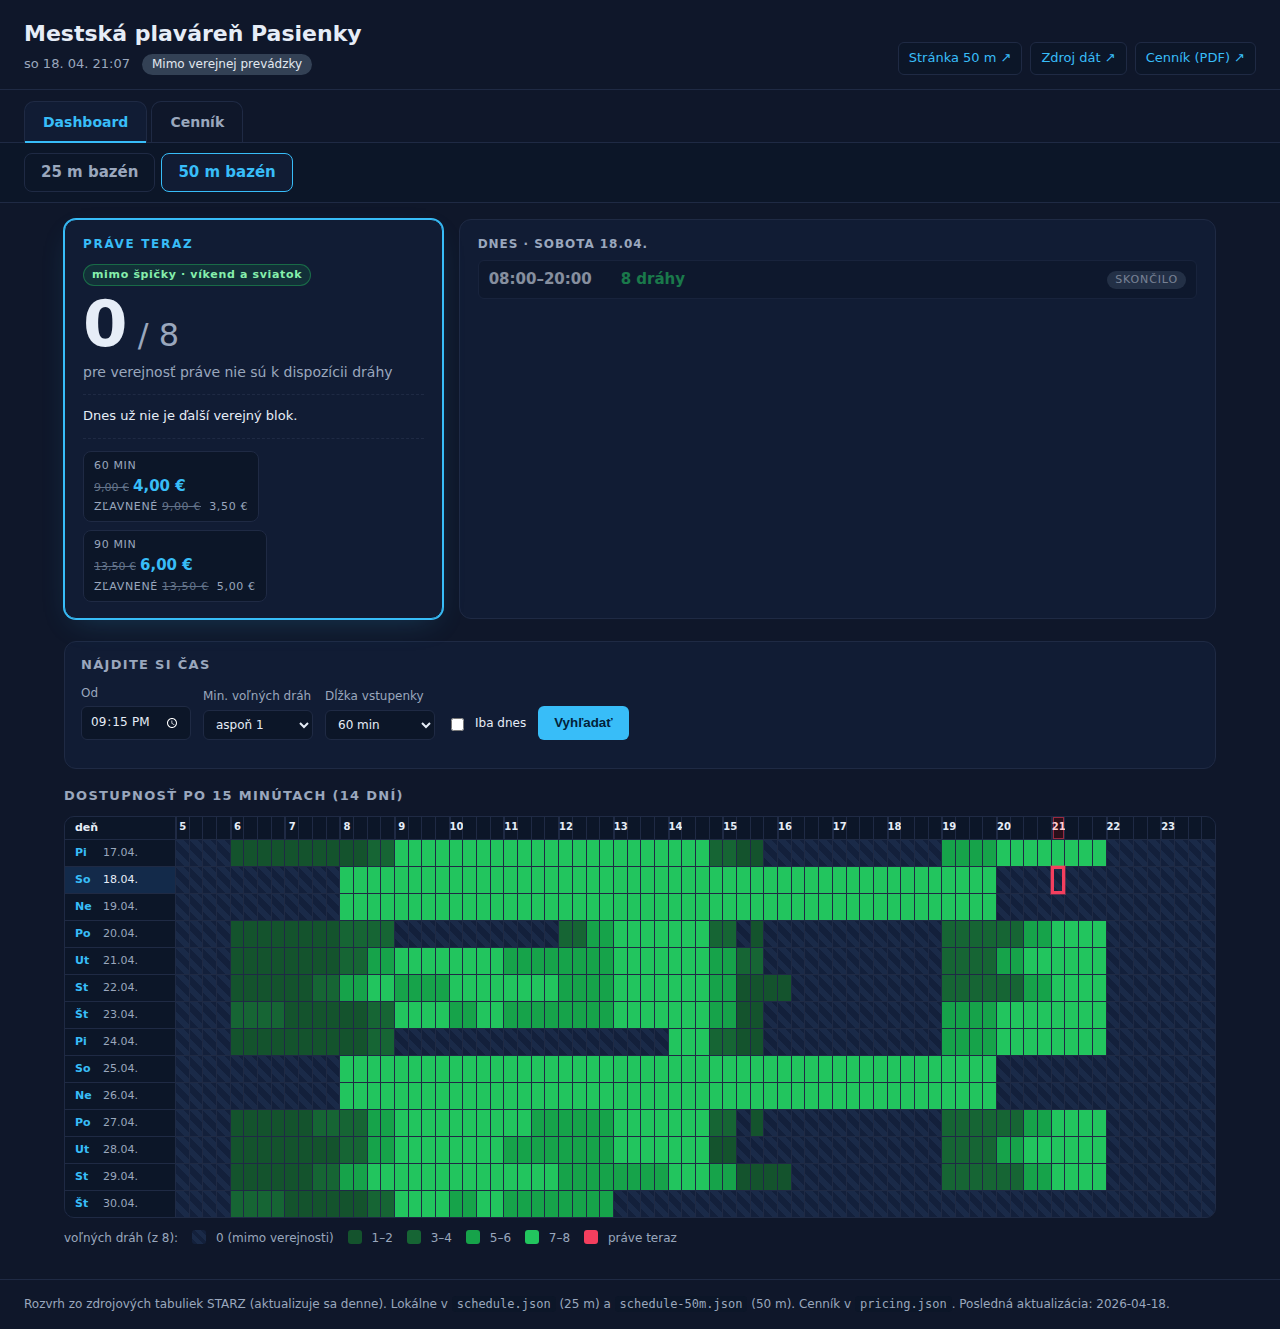
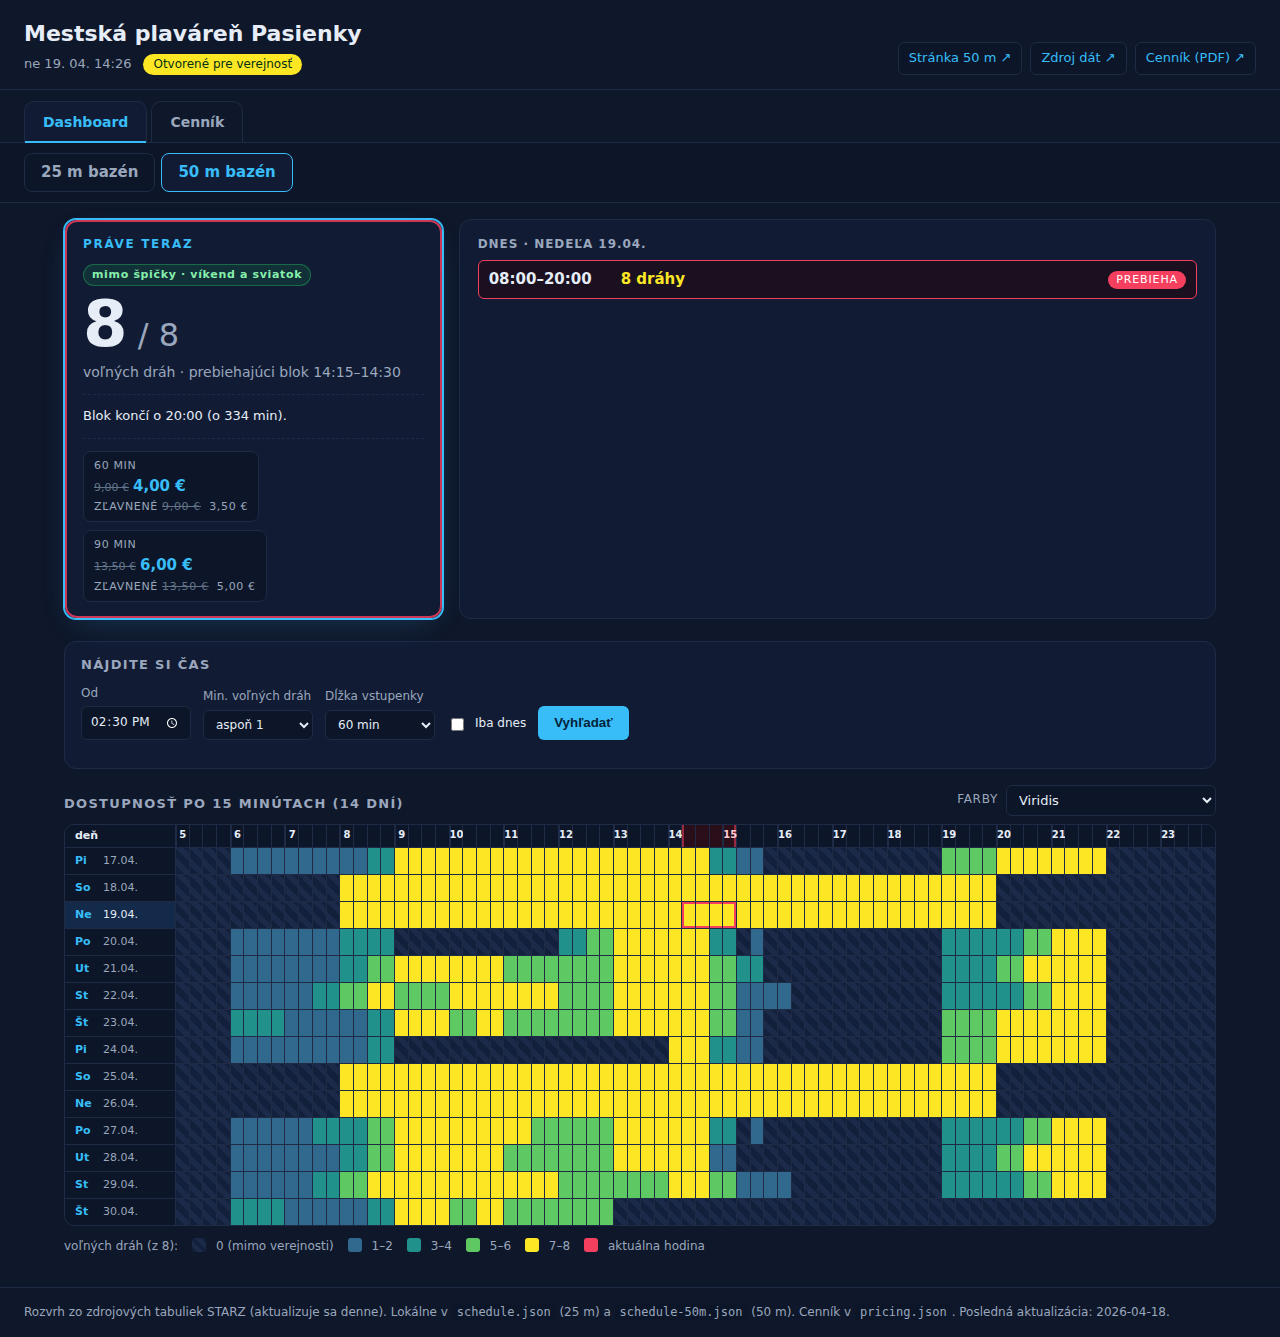
Make heatmap readable: 4 theme palettes + full-hour now indicator
- Add 4 color themes (Viridis default, Blues, Semafor, Rozhranie 50 %)
  with picker near the grid and localStorage persistence
- Each theme overrides --lane-1..4 so the legend follows automatically
- Expand the current-slot outline to span the whole current hour
  (4 consecutive cells) so upcoming-hour availability is obvious at a
  glance; header column shows the same band

diff --git a/app.js b/app.js
@@ -21,9 +21,11 @@ const pad = (n) => String(n).padStart(2, "0");
 const todayISO = (d = new Date()) =>
   `${d.getFullYear()}-${pad(d.getMonth() + 1)}-${pad(d.getDate())}`;
 
+const THEMES = ["viridis", "blues", "traffic", "diverging"];
 const state = {
   pool: "25m",
   view: "dashboard",
+  theme: "viridis",
   data: { "25m": null, "50m": null },
   pricing: null,
   finderHits: [],
@@ -47,11 +49,34 @@ async function load() {
 
   setupViews();
   setupTabs();
+  setupTheme();
   setupFinder();
   setupLinks();
   renderPricing();
   render();
   setInterval(render, 30_000);
+}
+
+function applyTheme(name) {
+  if (!THEMES.includes(name)) name = "viridis";
+  state.theme = name;
+  document.body.classList.remove(...THEMES.map(t => "theme-" + t));
+  document.body.classList.add("theme-" + name);
+  try { localStorage.setItem("starz-theme", name); } catch {}
+}
+
+function setupTheme() {
+  let saved = null;
+  try { saved = localStorage.getItem("starz-theme"); } catch {}
+  applyTheme(saved || "viridis");
+  const sel = document.getElementById("theme");
+  if (sel) {
+    sel.value = state.theme;
+    sel.addEventListener("change", () => {
+      applyTheme(sel.value);
+      renderLegend(activeData()?.maxLanes || 4);
+    });
+  }
 }
 
 function setupViews() {
@@ -361,6 +386,10 @@ function renderHeatmap(now, data) {
   const cols = Math.ceil((endMin - startMin) / slot);
   const todayIso = todayISO(now);
   const nowIdx = slotIndexForNow(data);
+  const slotsPerHour = Math.max(1, Math.round(60 / slot));
+  const nowStart = nowIdx;
+  const nowEnd = nowIdx >= 0 ? Math.min(nowIdx + slotsPerHour - 1, cols - 1) : -1;
+  const inNowBand = (c) => nowStart >= 0 && c >= nowStart && c <= nowEnd;
 
   const grid = document.getElementById("grid");
   grid.style.gridTemplateColumns = `110px repeat(${cols}, minmax(10px, 1fr))`;
@@ -374,7 +403,11 @@ function renderHeatmap(now, data) {
     const t = startMin + c * slot;
     const el = document.createElement("div");
     el.className = "cell header tick";
-    if (c === nowIdx) el.classList.add("now-col");
+    if (inNowBand(c)) {
+      el.classList.add("now-col");
+      if (c === nowStart) el.classList.add("now-col-start");
+      if (c === nowEnd) el.classList.add("now-col-end");
+    }
     if (t % 60 === 0) {
       el.textContent = String(Math.floor(t / 60));
       el.classList.add("hour");
@@ -396,7 +429,11 @@ function renderHeatmap(now, data) {
       const el = document.createElement("div");
       el.className = `cell lane-${level}`;
       if (raw > 0) el.dataset.free = String(raw);
-      if (isToday && c === nowIdx) el.classList.add("now");
+      if (isToday && inNowBand(c)) {
+        el.classList.add("now");
+        if (c === nowStart) el.classList.add("now-start");
+        if (c === nowEnd) el.classList.add("now-end");
+      }
       const s = startMin + c * slot;
       el.title = `${day.weekday} ${d}.${m}. · ${fmt(s)}–${fmt(s + slot)} · ${raw === 0 ? "—" : raw + " / " + data.maxLanes + " dráh"}`;
       el.dataset.date = day.date;
@@ -433,7 +470,7 @@ function renderLegend(max) {
     ${r2Lo <= r2Hi ? `<span><i class="sw lane-2"></i> ${range(r2Lo, r2Hi)}</span>` : ""}
     ${r3Lo <= r3Hi ? `<span><i class="sw lane-3"></i> ${range(r3Lo, r3Hi)}</span>` : ""}
     ${r4Lo <= r4Hi ? `<span><i class="sw lane-4"></i> ${range(r4Lo, r4Hi)}</span>` : ""}
-    <span><i class="sw now"></i> práve teraz</span>
+    <span><i class="sw now"></i> aktuálna hodina</span>
   `;
 }
 

diff --git a/styles.css b/styles.css
@@ -9,9 +9,28 @@
   --accent-2: #6366f1;
   --now: #f43f5e;
   --lane-0: #1b2744;
-  --lane-1: #14532d;
-  --lane-2: #166534;
-  --lane-3: #16a34a;
+  --lane-1: #31688e;
+  --lane-2: #21918c;
+  --lane-3: #5ec962;
+  --lane-4: #fde725;
+}
+
+body.theme-blues {
+  --lane-1: #1e3a5f;
+  --lane-2: #1e6091;
+  --lane-3: #2e8cc7;
+  --lane-4: #93c5fd;
+}
+body.theme-traffic {
+  --lane-1: #b91c1c;
+  --lane-2: #f59e0b;
+  --lane-3: #84cc16;
+  --lane-4: #22c55e;
+}
+body.theme-diverging {
+  --lane-1: #dc2626;
+  --lane-2: #64748b;
+  --lane-3: #14b8a6;
   --lane-4: #22c55e;
 }
 
@@ -245,6 +264,36 @@ main { padding: 16px 24px 32px; max-width: 1200px; margin: 0 auto; }
   font-weight: 700;
 }
 
+.grid-header {
+  display: flex;
+  align-items: center;
+  justify-content: space-between;
+  gap: 12px;
+  flex-wrap: wrap;
+}
+.grid-header .section-title { margin: 18px 0 10px; }
+.theme-pick {
+  display: inline-flex;
+  align-items: center;
+  gap: 8px;
+  font-size: 12px;
+  color: var(--muted);
+  text-transform: uppercase;
+  letter-spacing: .06em;
+}
+.theme-pick select {
+  background: var(--panel-2);
+  color: var(--text);
+  border: 1px solid var(--line);
+  padding: 6px 8px;
+  border-radius: 6px;
+  font: inherit;
+  font-size: 13px;
+  text-transform: none;
+  letter-spacing: 0;
+  color-scheme: dark;
+}
+
 .finder {
   background: var(--panel);
   border: 1px solid var(--line);
@@ -353,13 +402,17 @@ main { padding: 16px 24px 32px; max-width: 1200px; margin: 0 auto; }
 .cell.lane-3 { background: var(--lane-3); }
 .cell.lane-4 { background: var(--lane-4); }
 .cell.now {
-  outline: 3px solid var(--now);
-  outline-offset: -2px;
+  position: relative;
   z-index: 3;
-  box-shadow: 0 0 0 2px rgba(244, 63, 94, 0.35);
+  box-shadow: inset 0 2px 0 0 var(--now), inset 0 -2px 0 0 var(--now);
 }
-.cell.now-col { box-shadow: inset 0 0 0 1px rgba(244, 63, 94, 0.55); }
+.cell.now.now-start { box-shadow: inset 2px 0 0 0 var(--now), inset 0 2px 0 0 var(--now), inset 0 -2px 0 0 var(--now); }
+.cell.now.now-end   { box-shadow: inset -2px 0 0 0 var(--now), inset 0 2px 0 0 var(--now), inset 0 -2px 0 0 var(--now); }
+.cell.now.now-start.now-end { box-shadow: inset 0 0 0 2px var(--now); }
+.cell.now-col { background: rgba(244, 63, 94, 0.08); }
 .cell.now-col.header { background: #2a0f1a; color: #fecdd3; }
+.cell.now-col.now-col-start { box-shadow: inset 2px 0 0 0 rgba(244,63,94,0.55); }
+.cell.now-col.now-col-end { box-shadow: inset -2px 0 0 0 rgba(244,63,94,0.55); }
 .cell.match { outline: 2px solid var(--accent); outline-offset: -2px; z-index: 2; }
 
 .legend { display: flex; gap: 14px; flex-wrap: wrap; margin-top: 12px; font-size: 12px; color: var(--muted); align-items: center; }

diff --git a/index.html b/index.html
@@ -73,7 +73,18 @@
         <div id="finder-results" class="finder-results"></div>
       </section>
 
-      <h2 class="section-title">Dostupnosť po 15 minútach (14 dní)</h2>
+      <div class="grid-header">
+        <h2 class="section-title">Dostupnosť po 15 minútach (14 dní)</h2>
+        <label class="theme-pick">
+          <span>Farby</span>
+          <select id="theme">
+            <option value="viridis">Viridis</option>
+            <option value="blues">Modrá (monochromatická)</option>
+            <option value="traffic">Semafor</option>
+            <option value="diverging">Rozhranie 50 %</option>
+          </select>
+        </label>
+      </div>
       <div class="grid-wrap">
         <div class="grid" id="grid"></div>
       </div>
